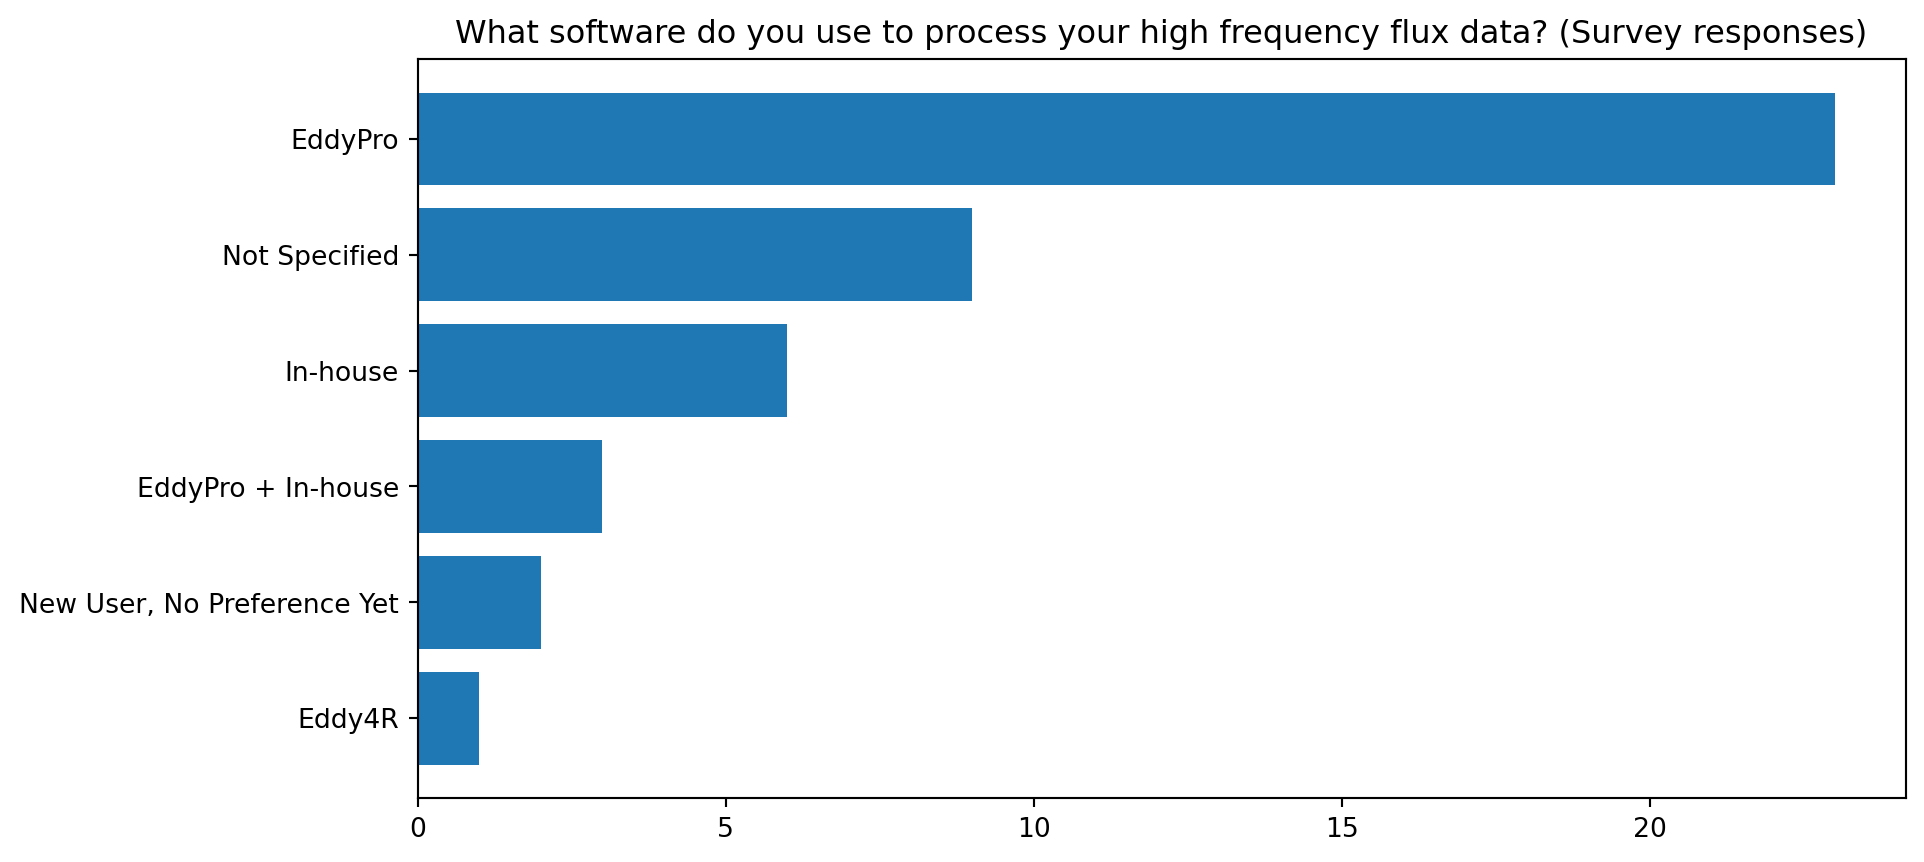
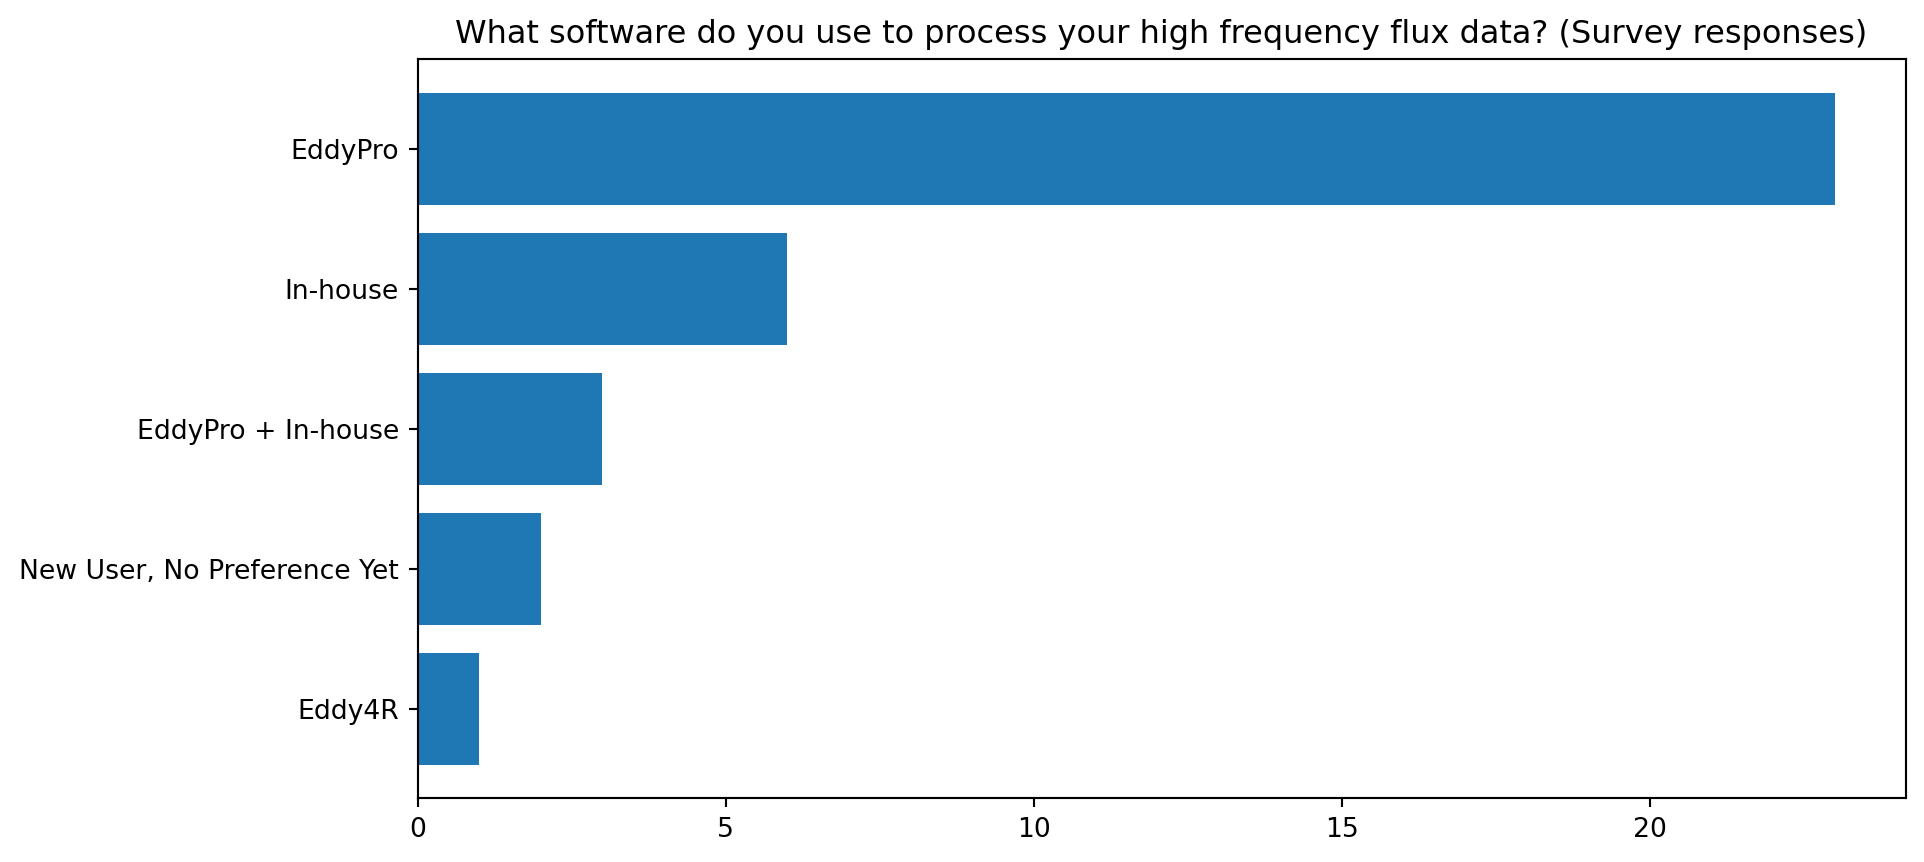
updated chart

diff --git a/docs/Documentation/about.html b/docs/Documentation/about.html
@@ -440,7 +440,7 @@ Dr.&nbsp;June Skeeter
 </section>
 <section id="who-uses-eddypro" class="slide level2">
 <h2>Who Uses EddyPro?</h2>
-<div id="79a5c404" class="cell" data-execution_count="1">
+<div id="d5a90956" class="cell" data-execution_count="1">
 <div class="cell-output cell-output-display">
 <div>
 <figure>
@@ -449,6 +449,7 @@ Dr.&nbsp;June Skeeter
 </div>
 </div>
 </div>
+<p>26 of the 35 respondents who answered the question, indicated that they use EddyPro®.</p>
 </section>
 <section id="advantages-of-eddypro" class="slide level2">
 <h2>Advantages of EddyPro®</h2>
